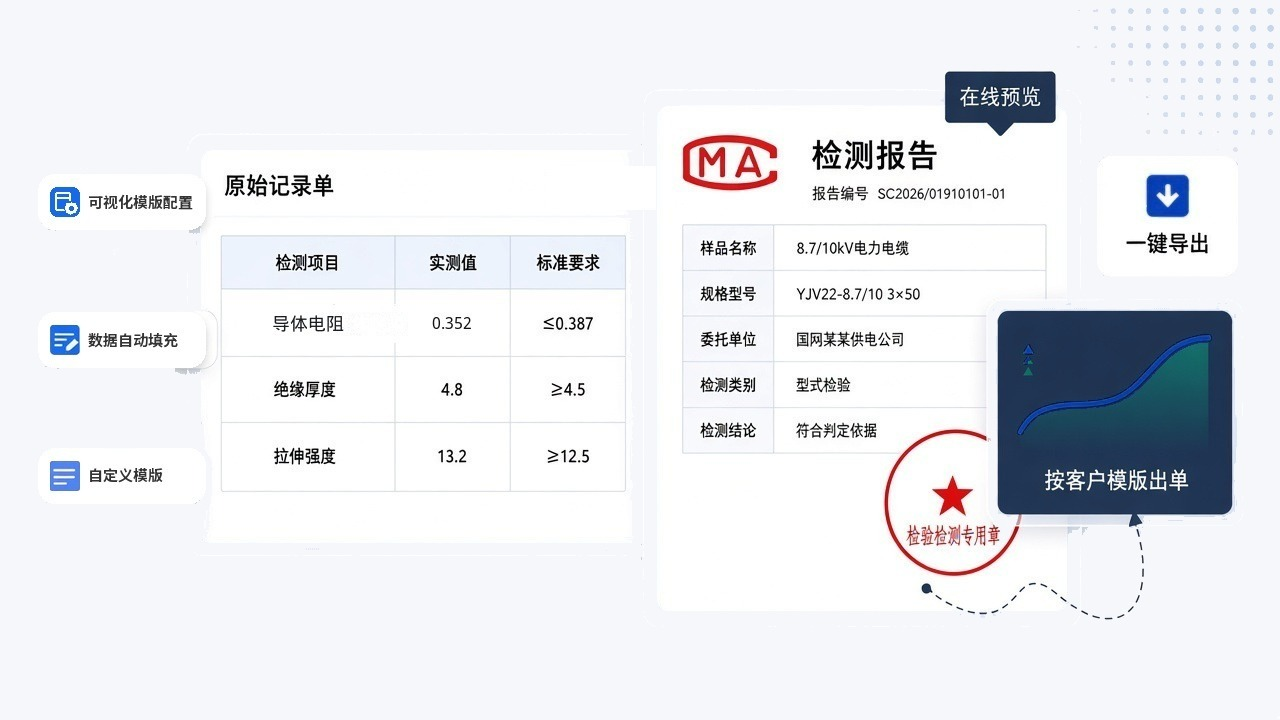
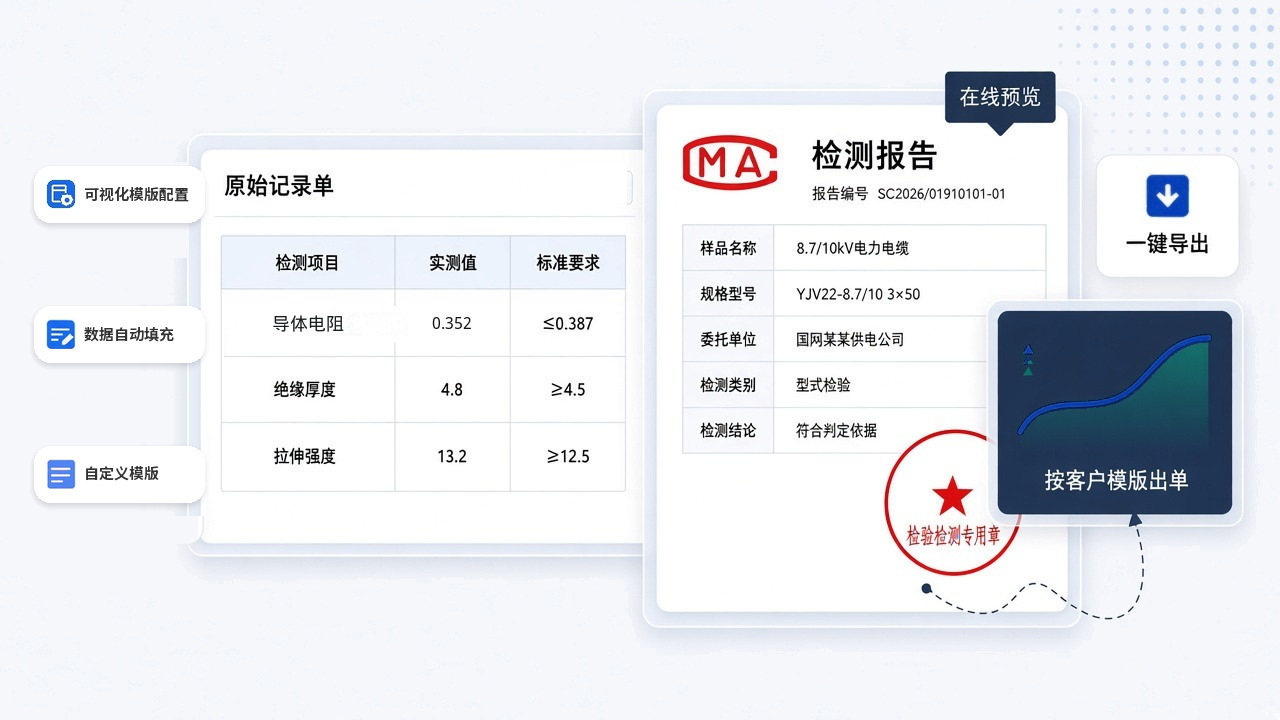
fix: 修掉优势3配图里的白块、胶囊压线和底边台阶
两张单据的接缝、胶囊和表格的重叠，以及左下角被切平的底边，都从干净的原图重新接上。

diff --git a/shucan-lims-brochure.html b/shucan-lims-brochure.html
@@ -380,7 +380,7 @@
             </ul>
           </div>
           <div class="visual">
-            <img class="illu" src="assets/brochure/14-template.jpg?v=bg" alt="左侧三个胶囊：可视化模版配置、数据自动填充、自定义模版。原始记录单填入导体电阻、绝缘厚度和拉伸强度，并生成电力电缆检测报告" />
+            <img class="illu" src="assets/brochure/14-template.jpg?v=clean" alt="左侧三个胶囊：可视化模版配置、数据自动填充、自定义模版。原始记录单填入导体电阻、绝缘厚度和拉伸强度，并生成电力电缆检测报告" />
           </div>
         </article>
         <article class="adv" id="adv-trace">
